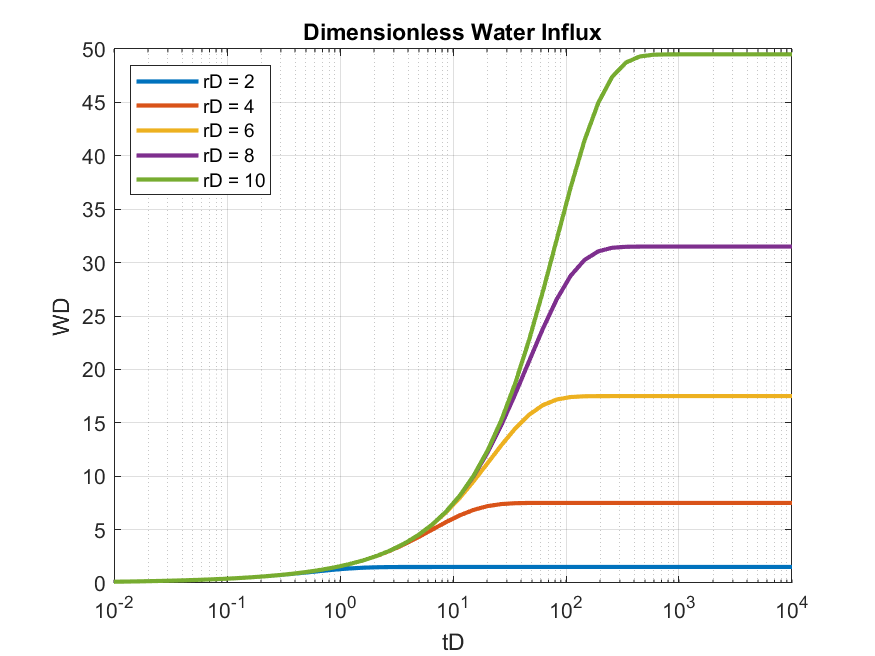
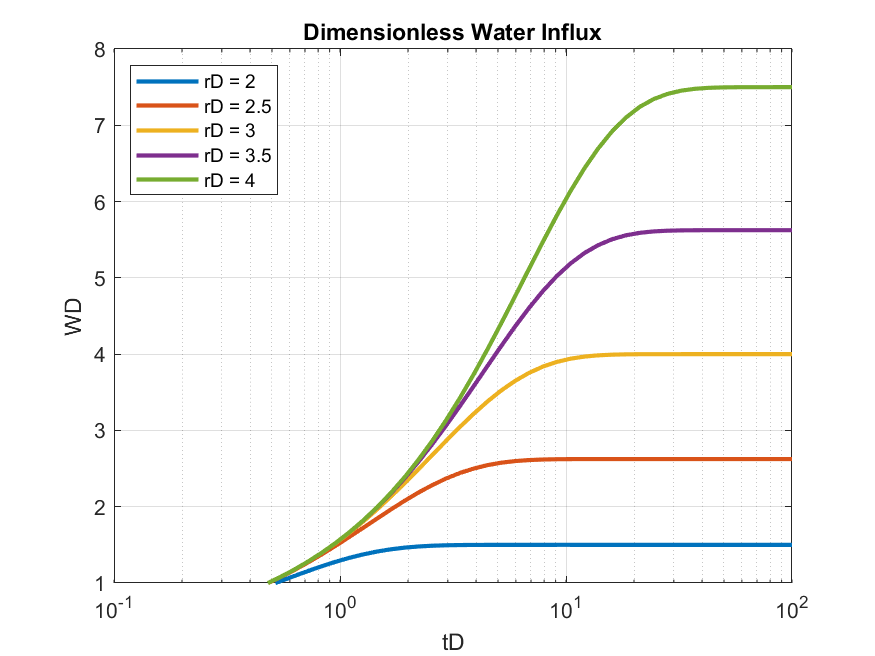
numintgration

diff --git a/docs/source/untitled.m b/docs/source/untitled.m
@@ -1,16 +1,18 @@
-            Rd = [2, 4, 6, 8, 10];
-            Td = logspace(-2, 4);
+            Rd = [2, 2.5, 3, 3.5, 4];
+            Td = logspace(-1, 2);
+            lgd = {};
             for rD = Rd 
                Wd = arrayfun(@(tD)EdgeClosedBoundaryRadial_Wd(tD, rD), Td);
                semilogx(Td, Wd, linewidth = 2); hold on;
+               lgd = [lgd, "rD = " + num2str(rD)];
             end
             grid on;
             xlabel("tD");
             ylabel("WD");
-            legend("rD = 2", "rD = 4", "rD = 6", "rD = 8", "rD = 10", location = "northwest")
-            
+            legend(lgd, location = "northwest")
+            axis([0.1,100,1,8]);
             title("Dimensionless Water Influx");
-            saveas(gcf, "Dimensionless-Water-Influx-Matlab.png");
+            saveas(gcf, "Dimensionless-Water-Influx-Matlab (r2-4).png");
             
             function ws = lapW(s, rD)
                sqrts = sqrt(s); sqrts3 = s * sqrts; rDsqrts = rD * sqrts;

diff --git a/docs/source/Ordinary_Differential_Equation.rst b/docs/source/Ordinary_Differential_Equation.rst
@@ -45,7 +45,7 @@ Visualizing Solutions:
 
 First Order ODE
 ---------------
-Consider :math:`y' = 2(a - t)y^2`
+Consider: :math:`y' = 2(a - t)y^2`
 
 .. math:: \frac{dy}{dt} = 2(a - t)y^2;
 .. math:: a = 0.25; y_0 = 15.9; t = [0, 1]
